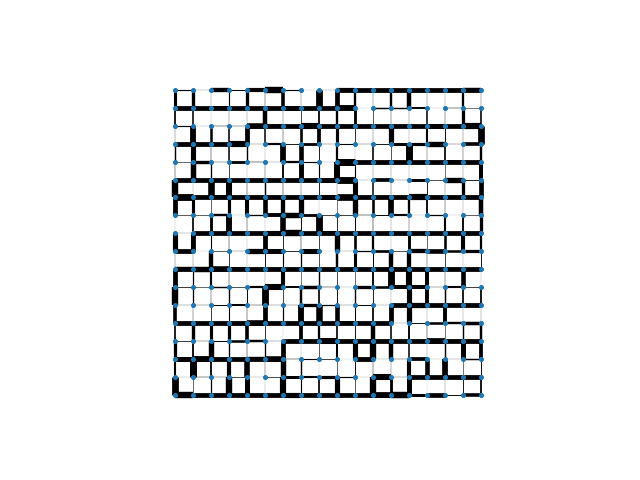
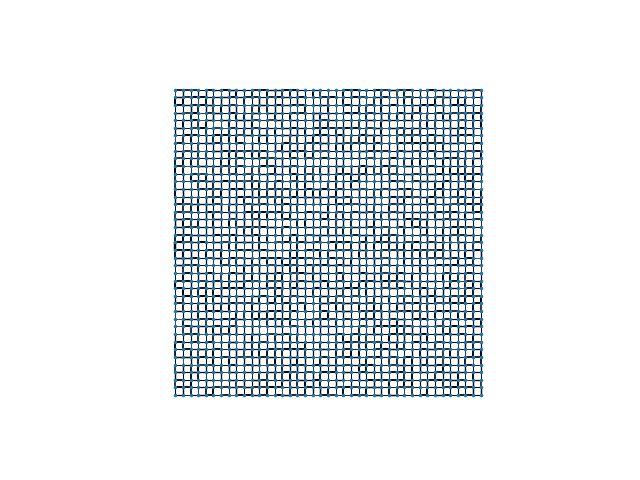
testing  sources

Changed region(s): [[0.25, 0.1562, 0.7812, 0.8438]]

diff --git a/Angiogenesis.py b/Angiogenesis.py
@@ -55,7 +55,7 @@ def generate_grid_graph(dim_A, dim_B, periodic=False, hexagonal=False, triangula
     return inc_mtx_dense_int, graph, nodes_data, edges_data
 
 
-def generate_physical_values(graph, source_value, incidence_matrix, corridor_model=False, two_capacitor_plates_model=False, square=False, triangular=False):
+def generate_physical_values(graph, source_value, incidence_matrix, corridor_model=False, two_capacitor_plates_model=False, one_capacitor_plates_model=False, quater_model=False, square=False, triangular=False):
     dimension = np.shape(incidence_matrix)[0]
     edges_dim = np.shape(incidence_matrix)[1]
 
@@ -96,6 +96,35 @@ def generate_physical_values(graph, source_value, incidence_matrix, corridor_mod
         print(last_index)
         print(half_nodes_on_one_side)
 
+    if one_capacitor_plates_model:
+        source_list = np.zeros(dimension)             # vector from nodes space
+        last_index = int(np.sqrt(dimension)-1)
+        nodes_on_one_side = int(np.sqrt(dimension))
+        source_list[int(np.sqrt(dimension) / 2)] = source_value
+        iterator = 0
+        for iterator in range(0, last_index+1):
+            print(iterator)
+            source_list[dimension-1-iterator] = -source_value/nodes_on_one_side
+            iterator += 1
+        print(source_list)
+        print(dimension)
+        print(last_index)
+        print(nodes_on_one_side)
+
+    if quater_model:
+        source_list = np.zeros(dimension)  # vector from nodes space
+        last_index = int(np.sqrt(dimension) - 1)
+        half_nodes_on_one_side = 3 * int(np.sqrt(dimension) / 2)
+        source_list[0] = source_value
+        iterator = 0
+        for iterator in range(0, last_index + 1, 2):
+            source_list[dimension - 1 - iterator] = -source_value / half_nodes_on_one_side
+            source_list[last_index * (iterator + 1)] = -source_value / half_nodes_on_one_side
+            source_list[(last_index + 1) * (iterator + 1)] = -source_value / half_nodes_on_one_side
+            iterator += 1
+        print(dimension)
+        print(last_index)
+        print(half_nodes_on_one_side)
 
     """
     # source for square lattice -- eye retina model
@@ -226,7 +255,7 @@ def checking_Kirchhoffs_law(graph, source_list):
         sum = 0
         for edge in graph.edges(node):
             sum += graph[edge[0]][edge[1]]['flow']
-        if -1e-10 < sum - source_list[index] < 1e-10:
+        if -1e-5 < sum - source_list[index] < 1e-5:
             #print("Kirchhoff's law at node {} fulfilled".format(node))
             #print(sum, '    |', source_list[index], '    |', print(node))
             successful_nodes += 1
@@ -254,9 +283,9 @@ def energy_functional(conductivity_list, length_list, flow_list, gamma, show_res
         print("Constraint: ", constraint)
 
 
-def run_simulation(nodes_data, edges_data, x, x_dagger, incidence_T_inv, incidence_inv, incidence_T, incidence_matrix, graph, source_list,
+def run_simulation(m, pos, nodes_data, edges_data, x, x_dagger, incidence_T_inv, incidence_inv, incidence_T, incidence_matrix, graph, source_list,
                      pressure_list, length_list, conductivity_list, flow_list, pressure_diff_list,
-                     a, b, gamma, delta, nu, flow_hat, c, r, dt, N, is_scaled=False):
+                     a, b, gamma, delta, nu, flow_hat, c, r, dt, N, is_scaled=False, with_pruning=False):
     # solving diff eq
     # exp(r*t/2)^(delta)
     # np.exp(r*t*delta/2)
@@ -271,19 +300,36 @@ def run_simulation(nodes_data, edges_data, x, x_dagger, incidence_T_inv, inciden
         flow_list = flow_list * np.exp(r*t*delta/2)
 
     energy_functional(conductivity_list, length_list, flow_list, gamma, show_result=True)
+    number_of_removed_edges = 0
+    number_of_removed_nodes = 0
 
     for n in range(1, N+1):
         t += dt
+        if n!= 0 and n!= N and n == N/2:
+            draw_graph(graph, "mid_graph", pos, conductivity_list, m)
 
         # pruning implementation
-        iter = 0
-        for e in graph.edges:
-            con_val = conductivity_list[iter]
-            #print(e, con_val)
-            if con_val < 1e-9:
-                graph.remove_edge(*e)
-                print(e, 'removed')
-            iter += 1
+        if with_pruning:
+            for edge in graph.edges:
+                con_val = graph.get_edge_data(*edge)["conductivity"]
+                #print(*edge, " | ", con_val)
+                if con_val < 1e-11:                 # removing an edge if its radius is ~= 0
+                    graph.remove_edge(*edge)
+                    print('edge', *edge, 'removed')
+                    number_of_removed_edges += 1
+
+            for node in dict(graph.nodes).copy():           # for reasons unknown I had to cast graph.nodes into dict
+                                                            # and use dictionary method copy() to get away with error
+                                                            # "RuntimeError: dictionary changed size during iteration"
+                                                            # but it with edges it worked just fine
+                neighbors = set(nx.neighbors(graph, node))
+                #print(len(neighbors))
+                if len(neighbors) == 0:
+                    graph.remove_node(node)
+                    print('node', node, 'removed')
+                    #pos = dict((m, m) for m in graph.nodes())
+                    number_of_removed_nodes += 1
+
 
         # dK/dt = a*(q / q_hat)^(2*gamma) - b * K + c
         dK = dt * (np.float_power(a * (np.abs(flow_list) / flow_hat), (2 * gamma)) - b * conductivity_list + c * np.ones(len(flow_list)))
@@ -303,11 +349,14 @@ def run_simulation(nodes_data, edges_data, x, x_dagger, incidence_T_inv, inciden
 
     energy_functional(conductivity_list, length_list, flow_list, gamma, show_result=True)
     print('simulation time: ', t, ' seconds')
+    print("number of removed edges: ", number_of_removed_edges)
+    print("number of removed nodes: ", number_of_removed_nodes)
+
     update_df(pressure_list, length_list, conductivity_list, flow_list, pressure_diff_list, nodes_data, edges_data)
     return graph, conductivity_list
 
 
-def draw_graph(graph, name, pos, conductivity_list, flow_list, n):
+def draw_graph(graph, name, pos, conductivity_list, n):
     if len(conductivity_list) < 100:
         nx.draw_networkx(graph, pos=pos)
         nx.draw_networkx_nodes(graph, pos=pos, node_size=300/(2*n))
@@ -315,11 +364,12 @@ def draw_graph(graph, name, pos, conductivity_list, flow_list, n):
     else:
         #nx.draw_networkx(graph, pos=pos)
         nx.draw_networkx_nodes(graph, pos=pos, node_size=200 / (2 * n))
-        nx.draw_networkx_edges(graph, pos=pos, width=np.float_power(conductivity_list, 4))
+        nx.draw_networkx_edges(graph, pos=pos, width=np.float_power(conductivity_list, 1))
 
     plt.axis('off')
     plt.axis('scaled')
     plt.savefig("%s.png" % name)
+    plt.clf()
     #plt.show()
     # nodes colour - heatmap of pressure
     # edges length - proportional to length

diff --git a/Simulation.py b/Simulation.py
@@ -8,19 +8,19 @@ start_time = time.time()
 hexagonal = 0
 triangular = 0
 
-n = 18
-number_of_nodes = n*n
+m = 99
+number_of_nodes = m*m
 #adjacency_matrix = an.generate_random_adjacent_matrix(number_of_nodes)
 # random graph
 #incidence_matrix, graph, nodes_data, edges_data = an.generate_graph(adjacency_matrix)
 
 # generate lattice
-incidence_matrix, graph, nodes_data, edges_data = an.generate_grid_graph(n, n, hexagonal=hexagonal, triangular=triangular)
+incidence_matrix, graph, nodes_data, edges_data = an.generate_grid_graph(m, m, hexagonal=hexagonal, triangular=triangular)
 #graph.remove
 
 source_value = 10
 incidence_T_inv, x, x_dagger, incidence_inv, incidence_T, source_list, pressure_list, length_list, conductivity_list, flow_list, pressure_diff_list = \
-    an.generate_physical_values(graph, source_value, incidence_matrix, corridor_model=0, two_capacitor_plates_model=1, triangular=triangular)
+    an.generate_physical_values(graph, source_value, incidence_matrix, corridor_model=0, two_capacitor_plates_model=0, one_capacitor_plates_model=1, quater_model=0, triangular=triangular)
 
 arguments = {'pressure_list': pressure_list, 'length_list': length_list, 'conductivity_list': conductivity_list,
              'flow_list': flow_list, 'pressure_diff_list': pressure_diff_list, 'incidence_matrix': incidence_matrix,
@@ -40,14 +40,14 @@ else:
 
 
 an.checking_Kirchhoffs_law(graph, source_list)
-an.draw_graph(graph, "graph", pos, conductivity_list, flow_list, n)
-print(edges_data)
+an.draw_graph(graph, "graph", pos, conductivity_list, m)
+#print(edges_data)
 # dK/dt = a*(q / q_hat)^(2*gamma) - b * K + c
-parameters_set = {'a': 2.9, 'b': 1.3, 'gamma': 2/3, 'delta': 1.1, 'nu': 1.1, 'flow_hat': 2.1, 'c': 0.0001, 'r': 2, 'dt': 0.1, 'N': 1000}
+parameters_set = {'a': 2.9, 'b': 1.3, 'gamma': 2/3, 'delta': 1.1, 'nu': 1.1, 'flow_hat': 1.1, 'c': 0.0, 'r': 2, 'dt': 0.01, 'N': 2}
 
-graph, conductivity_list = an.run_simulation(nodes_data, edges_data, **arguments, **parameters_set, is_scaled=True)
-print(edges_data)
-an.draw_graph(graph, "final_graph", pos, conductivity_list, flow_list, n)
+graph, conductivity_list = an.run_simulation(m, pos, nodes_data, edges_data, **arguments, **parameters_set, is_scaled=True, with_pruning=False)
+#print(edges_data)
+an.draw_graph(graph, "final_graph", pos, conductivity_list, m)
 an.checking_Kirchhoffs_law(graph, source_list)
 
 
